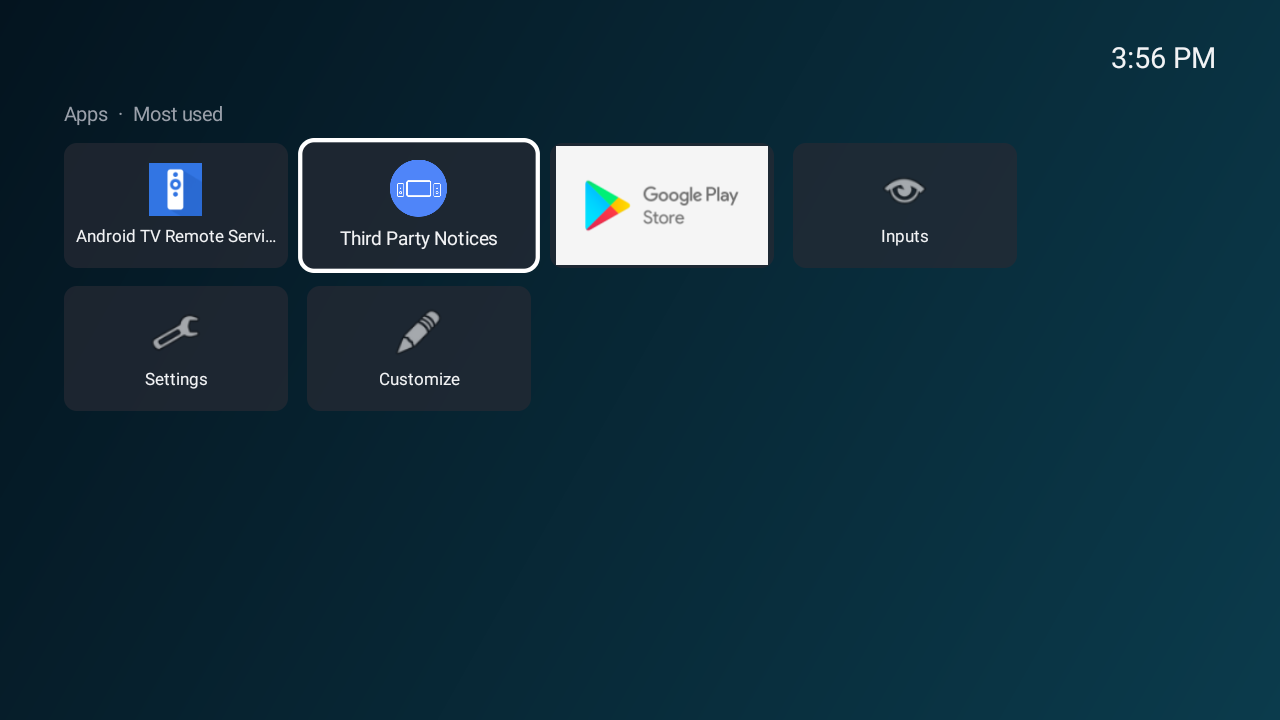
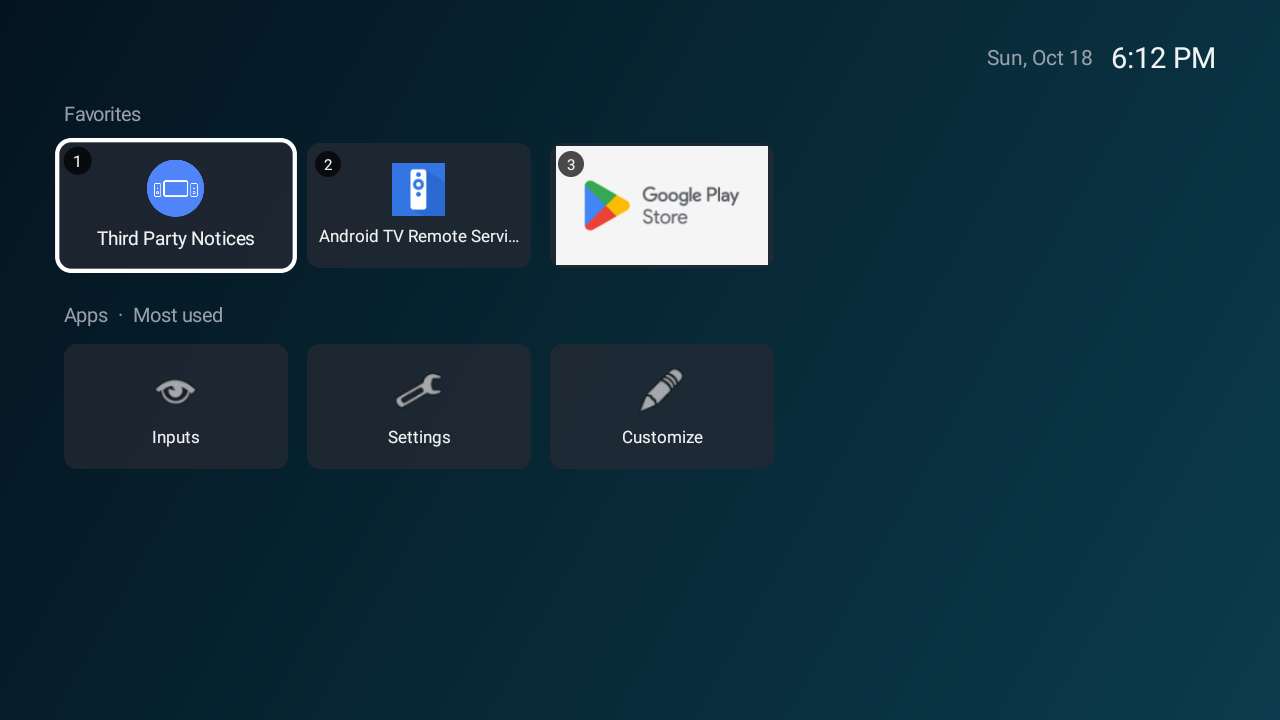
feat(ui): show a locale-aware date next to the clock
Updates on the existing time tick plus DATE_CHANGED; no extra work per frame.

diff --git a/app/src/main/java/dev/rishi/tvlauncher/MainActivity.kt b/app/src/main/java/dev/rishi/tvlauncher/MainActivity.kt
@@ -30,6 +30,7 @@ import android.widget.ScrollView
 import android.widget.TextView
 import android.widget.Toast
 import java.util.Date
+import java.util.Locale
 import java.util.concurrent.ExecutorService
 import java.util.concurrent.Executors
 
@@ -41,6 +42,7 @@ class MainActivity : Activity() {
 
     private lateinit var scroll: ScrollView
     private lateinit var clock: TextView
+    private lateinit var date: TextView
     private lateinit var favoritesRow: LinearLayout
     private lateinit var favoritesLabel: TextView
     private lateinit var appsLabel: TextView
@@ -84,6 +86,7 @@ class MainActivity : Activity() {
             addAction(Intent.ACTION_TIME_TICK)
             addAction(Intent.ACTION_TIME_CHANGED)
             addAction(Intent.ACTION_TIMEZONE_CHANGED)
+            addAction(Intent.ACTION_DATE_CHANGED)
         })
     }
 
@@ -207,10 +210,14 @@ class MainActivity : Activity() {
 
     private fun buildLayout(): View {
         clock = text(sizeSp = 22f, color = R.color.text_primary)
+        date = text(sizeSp = 16f, color = R.color.text_secondary).apply {
+            setPadding(0, 0, dp(14), 0)
+        }
         val header = LinearLayout(this).apply {
             orientation = LinearLayout.HORIZONTAL
             gravity = Gravity.CENTER_VERTICAL
             addView(View(context), LinearLayout.LayoutParams(0, 0, 1f))
+            addView(date)
             addView(clock)
         }
 
@@ -458,7 +465,11 @@ class MainActivity : Activity() {
     }
 
     private fun updateClock() {
-        clock.text = DateFormat.getTimeFormat(this).format(Date())
+        val now = Date()
+        clock.text = DateFormat.getTimeFormat(this).format(now)
+        // Locale-aware short form, e.g. "Sat, 18 Oct" or "Sat, Oct 18".
+        val pattern = DateFormat.getBestDateTimePattern(Locale.getDefault(), DATE_SKELETON)
+        date.text = DateFormat.format(pattern, now)
     }
 
     /** Fits as many tiles as the screen allows instead of assuming a density. */
@@ -505,6 +516,7 @@ class MainActivity : Activity() {
     private companion object {
         const val FOCUSED_SCALE = 1.08f
         const val FOCUS_ANIM_MS = 120L
+        const val DATE_SKELETON = "EEEdMMM"
 
         // Prefixed so they can never collide with a package name.
         const val TILE_INPUTS = "system:inputs"

diff --git a/README.md b/README.md
@@ -6,7 +6,7 @@ Stock TV launchers are heavy: recommendation feeds, promoted rows, background se
 
 ![Lite Launcher home screen](docs/screenshot.png)
 
-- **Small and fast:** about 80 KB, no libraries, opens in roughly 100 ms.
+- **Small and fast:** about 50 KB, no libraries, opens in roughly 100 ms.
 - **No ads, no feeds, no tracking:** the app requests **zero permissions**, not even internet access.
 - **Built for the remote:** D-pad navigation, long-press menus, nothing that needs a pointer.
 - **Fully reversible:** one command puts your TV back exactly as it was.
@@ -19,7 +19,7 @@ Stock TV launchers are heavy: recommendation feeds, promoted rows, background se
 - Pin, hide, or jump to an app's App info; reorder favorites with a pick-up-and-move mode
 - Inputs tile for HDMI / AV sources
 - Gradient backgrounds (no wallpaper images, so no memory cost)
-- Clock
+- Clock and date
 - Optional debloat: disables the stock launcher's recommendation services and vendor bloat, per TV brand
 
 See [ROADMAP.md](ROADMAP.md) for what's coming next.

diff --git a/ROADMAP.md b/ROADMAP.md
@@ -14,7 +14,8 @@ Guiding rule: every feature must keep the launcher small, permission-free and fa
 
 - [x] **Number keys:** keys 1-9 on the remote open favorites 1-9 directly
 - [x] **Move mode:** reorder favorites by pressing OK, then left/right, then OK, instead of one step per menu
-- [ ] **Status header:** date next to the clock, plus a no-network warning
+- [x] **Status header:** date next to the clock
+- [ ] **No-network warning** in the header (needs the install-time `ACCESS_NETWORK_STATE` permission, so it is opt-in by decision)
 
 ## Phase 3: Nice to have (opt-in)
 
